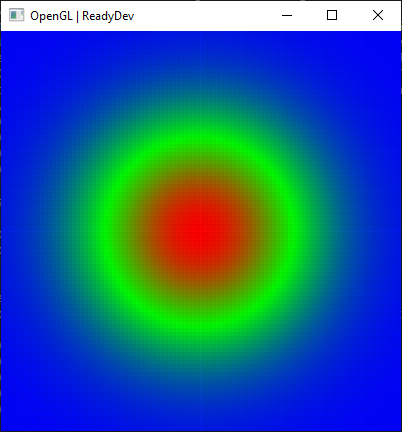
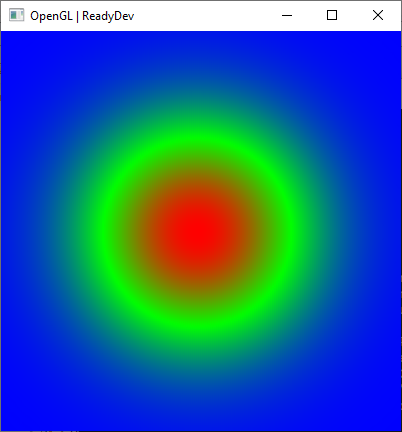
Initial Commit

diff --git a/Tutoriels/Cpp/C0/OpenGL/page/main.php b/Tutoriels/Cpp/C0/OpenGL/page/main.php
@@ -160,6 +160,78 @@ static void GOpenGL_DrawPoints(sGData obj) {
 	glEnd();
 #endif
 }
+//===============================================</xmp></pre></div></div></div></div></div><br><div class="Content2 GTitle1"><div class="MainBlock2"><div class="Content"><h1 class="Title2 Center" id="Tracer une fonction 3D"><a class="Link3" href="#">Tracer une fonction 3D</a></h1><div class="Body3">Le but de cette section est de vous apprendre à <span class="GColor1" style="color:lime;">Tracer une fonction 3D </span>avec OpenGL.<br>Produit par <b>Gérard KESSE</b>.<br><br><div class="Content0 GSummary2"><div class="Body0" id="Loader_1571657698880"><div class="Row26">Summary 2</div></div><script>loadSummary2("Loader_1571657698880");</script></div><br><h2 class="Title7 GTitle2" id="Tracer une fonction 3D-Résultat"><a class="Link9" href="#Tracer une fonction 3D">Résultat</a></h2><br><h3 class="Title8 GTitle3">Cas d'une fonction gaussienne 2D</h3><div class="Img3 GImage"><img src="img/Gaussian2D.png" alt="img/Gaussian2D.png"></div><br><h2 class="Title7 GTitle2" id="Tracer une fonction 3D-Modéliser une focntion 3D"><a class="Link9" href="#Tracer une fonction 3D">Modéliser une focntion 3D</a></h2><br><h3 class="Title8 GTitle3">Cas d'une fonction gaussienne 2D</h3><div class="GCode1"><pre class="Code2"><xmp class="AceCode" data-mode="c_cpp">//===============================================
+static double GFunction_Gaussian2D(double x, double y, void* params) {
+	sGGaussian2D* lParams = (sGGaussian2D*)params;
+	double lSigmaX = lParams-&gt;sigmaX;
+	double lSigmaY = lParams-&gt;sigmaY;
+	double lX0 = lParams-&gt;x0;
+	double lY0 = lParams-&gt;y0;
+	double lZmax = 1.0/(lSigmaX*lSigmaY*sqrt(2*M_PI));
+	double lAx = pow((x - lX0), 2)/(2*pow(lSigmaX, 2));
+	double lAy = pow((y - lY0), 2)/(2*pow(lSigmaY, 2));
+	double lA = lAx + lAy;
+	double lZ = lZmax*exp(-lA);
+	return lZ;
+}
+//===============================================</xmp></pre></div><br><h2 class="Title7 GTitle2" id="Tracer une fonction 3D-Calucler une focntion 3D"><a class="Link9" href="#Tracer une fonction 3D">Calucler une focntion 3D</a></h2><br><div class="GCode1"><pre class="Code2"><xmp class="AceCode" data-mode="c_cpp">//===============================================
+static void GFunction_Compute2D(sGFunction2D* func) {
+	double lXmin = func-&gt;xMin;
+	double lXmax = func-&gt;xMax;
+	double lYmin = func-&gt;yMin;
+	double lYmax = func-&gt;yMax;
+	int lxNmax = func-&gt;xNmax;
+	int lyNmax = func-&gt;yNmax;
+	int lNmax = lxNmax*lyNmax;
+	double lDx = (lXmax - lXmin)/(lxNmax - 1);
+	double lDy = (lYmax - lYmin)/(lyNmax - 1);
+	func-&gt;data = (sGVertex*)malloc(sizeof(sGVertex)*lNmax);
+	double lXi = lXmin;
+	int k = 0;
+	for(int i = 0; i &lt; lxNmax; i++) {
+		double lYi = lYmin;
+		for(int j = 0; j &lt; lyNmax; j++) {
+			double lZi = func-&gt;func(lXi, lYi, func-&gt;params);
+			func-&gt;data[k].x = lXi;
+			func-&gt;data[k].y = lYi;
+			func-&gt;data[k].z = lZi;
+			lYi += lDy;
+			k++;
+		}
+		lXi += lDx;
+	}
+}
+//===============================================</xmp></pre></div><br><h2 class="Title7 GTitle2" id="Tracer une fonction 3D-Tracer une fonction 3D"><a class="Link9" href="#Tracer une fonction 3D">Tracer une fonction 3D</a></h2><br><div class="GCode1"><pre class="Code2"><xmp class="AceCode" data-mode="c_cpp">//===============================================
+static void GOpenGL_DrawHeatMapPoints(sGData2D obj) {
+#if defined(__WIN32)
+	int lxNmax = obj.xNmax;
+	int lyNmax = obj.yNmax;
+	int lNmax = lxNmax*lyNmax;
+	double lZmin = GFunction()-&gt;Min(obj.data, lNmax, 2);
+	double lZmax = GFunction()-&gt;Max(obj.data, lNmax, 2);
+	double lZavg = (lZmin + lZmax) / 2;
+
+	double lPointSize = obj.pointSize;
+
+	glPointSize(lPointSize);
+
+	glBegin(GL_POINTS);
+	for(int i = 0; i &lt; lNmax; i++) {
+		double lZ = obj.data[i].z;
+		double lRed = lZ/lZavg - 1.0;
+		double lBlue = 1.0 - lZ/lZavg;
+		if(lRed &lt; 0) lRed = 0;
+		if(lBlue &lt; 0) lBlue = 0;
+		double lGreen = 1.0 - lRed - lBlue;
+
+		sGVertexDiv lVertexDiv = {obj.data[i] , obj.gridDiv, obj.xDiv, obj.yDiv, obj.zDiv};
+		sGVertex lVertex = GOpenGL_VertexDiv(lVertexDiv);
+		glColor4d(lRed, lGreen, lBlue, 0.5);
+		glVertex3d(lVertex.x, lVertex.y, lVertex.z);
+	}
+	glEnd();
+#endif
+}
 //===============================================</xmp></pre></div></div></div></div></div><br><div class="Content2 GTitle1"><div class="MainBlock2"><div class="Content"><h1 class="Title2 Center" id="Tracer une carte de chaleur"><a class="Link3" href="#">Tracer une carte de chaleur</a></h1><div class="Body3">Le but de cette section est de vous apprendre à <span class="GColor1" style="color:lime;">Tracer une carte de chaleur</span> avec OpenGL.<br>Produit par <b>Gérard KESSE</b>.<br><br><div class="Content0 GSummary2"><div class="Body0" id="Loader_1571362003491"><div class="Row26">Summary 2</div></div><script>loadSummary2("Loader_1571362003491");</script></div><br><h2 class="Title7 GTitle2" id="Tracer une carte de chaleur-Résultat"><a class="Link9" href="#Tracer une carte de chaleur">Résultat</a></h2><br><h3 class="Title8 GTitle3">Cas de la fonction gaussienne</h3><div class="Img3 GImage"><img src="img/HeatMap.png" alt="img/HeatMap.png"></div><br><h2 class="Title7 GTitle2" id="Tracer une carte de chaleur-Modéliser une carte de chaleur"><a class="Link9" href="#Tracer une carte de chaleur">Modéliser une carte de chaleur</a></h2><br><h3 class="Title8 GTitle3">Cas de la focntion gaussienne</h3><div class="GCode1"><pre class="Code2"><xmp class="AceCode" data-mode="c_cpp">//===============================================
 static double GFunction_Gaussian2D(double x, double y, void* params) {
 	sGGaussian2D* lParams = (sGGaussian2D*)params;
